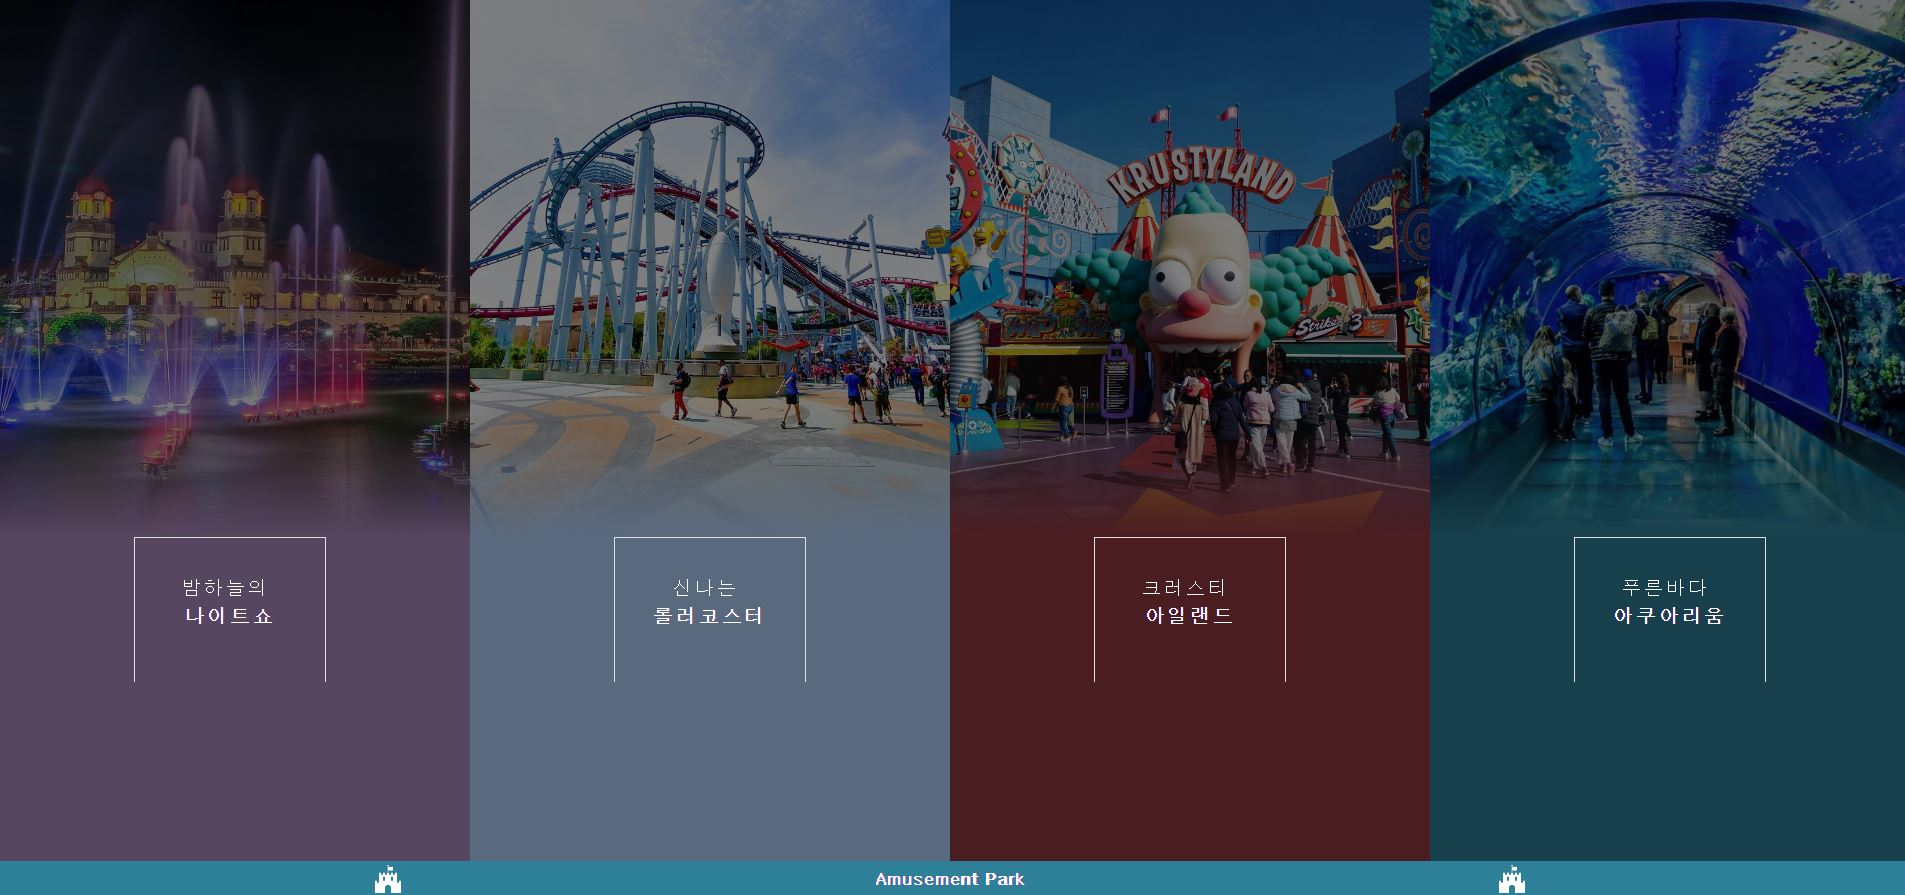
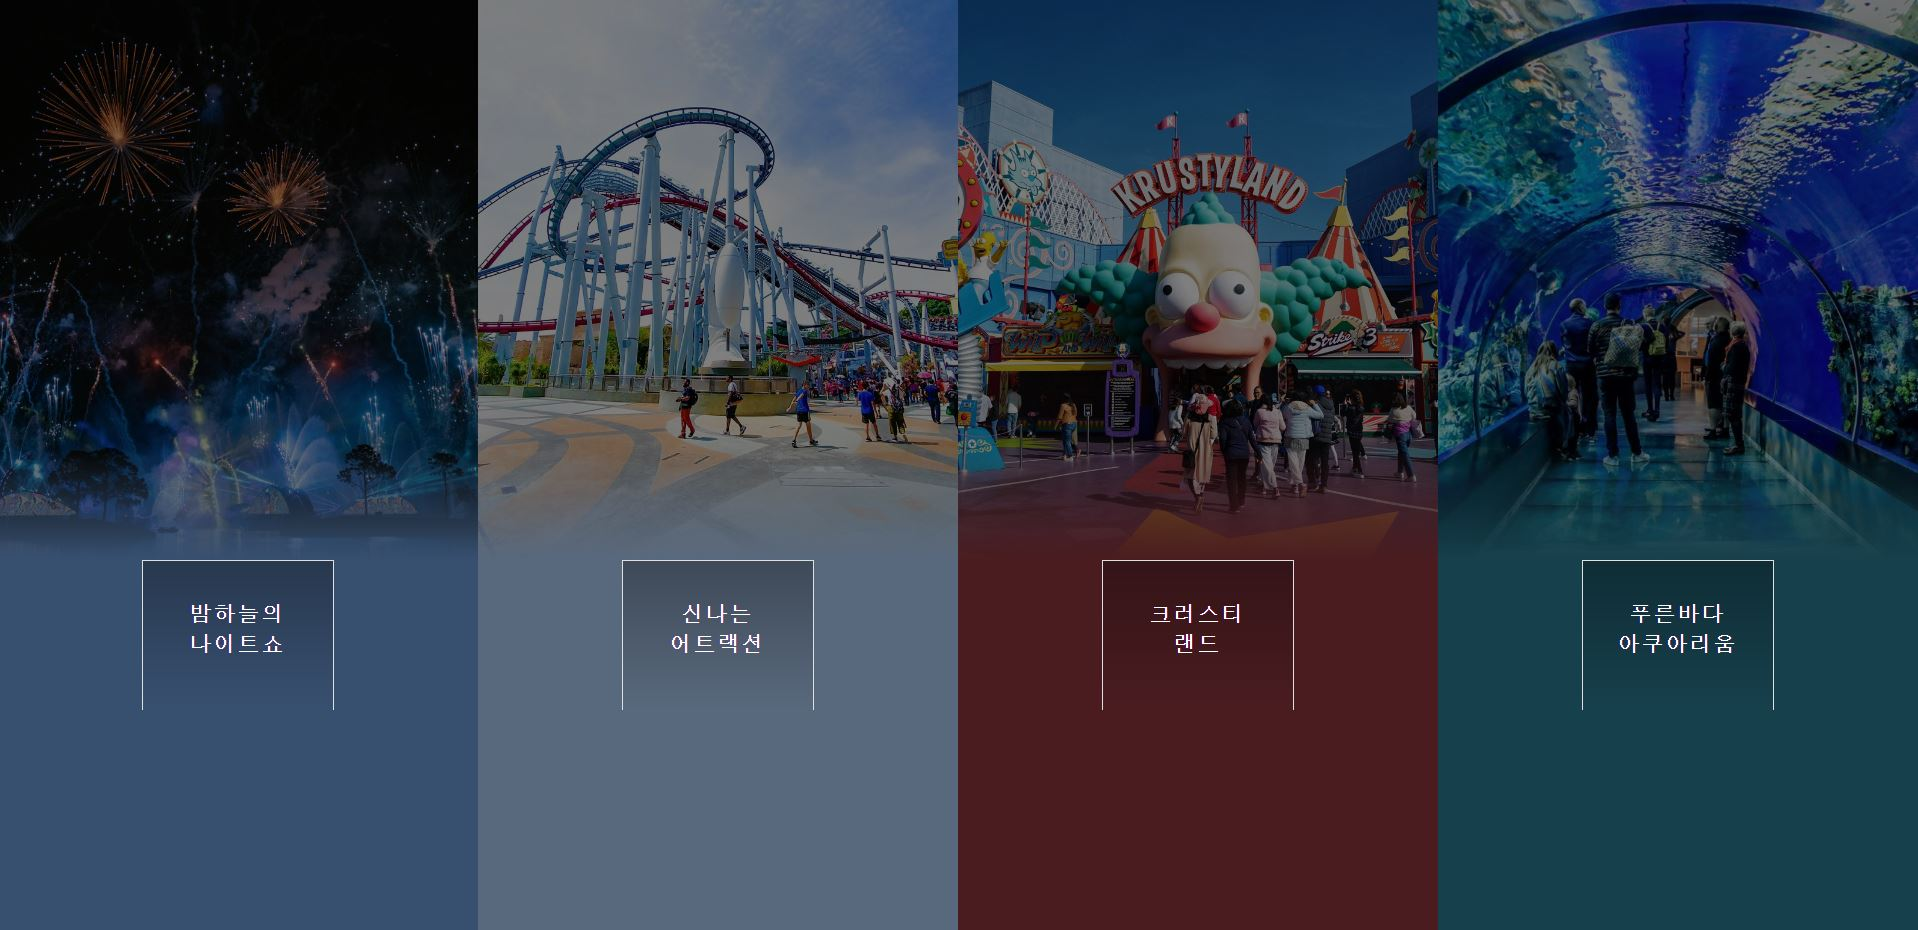
20230506

diff --git a/source/js/amusementpark/nightshow/nigihtshow.js b/source/js/amusementpark/nightshow/nigihtshow.js
@@ -5,6 +5,7 @@ window.addEventListener("load", () => {
   const overlayImg = document.querySelector(".overlay img");
   const hidings = document.querySelectorAll("a.hiding + *");
   const html = document.querySelector("html");
+  const gotop = document.querySelector(".gotop");
 
   //모바일 메뉴
   const topNavMobile = document.querySelector(".top-nav-mobile");
@@ -15,6 +16,15 @@ window.addEventListener("load", () => {
     subMenu.classList.toggle("opened");
   });
 
+  //gotop 버튼
+  gotop.addEventListener(
+    "click",
+    () => {
+      window.scrollTo(0, 0);
+    },
+    { passive: true }
+  );
+
   //click 이벤트 작동하지 않음
   goup.addEventListener("mouseenter", () => {
     subMenu.classList.toggle("opened");
@@ -24,14 +34,17 @@ window.addEventListener("load", () => {
     hidings[i].dataset.offtop = hidings[i].getBoundingClientRect().top - 1000;
   }
 
-  window.addEventListener("scroll", () => {
-    const currentTop = html.scrollTop;
-    for (let i = 0; i < hidings.length; i++) {
-      if (currentTop >= hidings[i].dataset.offtop) {
-        showElements(hidings[i]);
+  window.addEventListener(
+    "scroll",
+    throttle(() => {
+      const currentTop = html.scrollTop;
+      for (let i = 0; i < hidings.length; i++) {
+        if (currentTop >= hidings[i].dataset.offtop) {
+          showElements(hidings[i]);
+        }
       }
-    }
-  });
+    })
+  );
 
   function showElements(element) {
     element.style.top = "0px";
@@ -95,7 +108,7 @@ window.addEventListener("load", () => {
   }
 
   /**
-   * 슬라이더에 left : -320px css 를 적용하는 함수
+   * 슬라이더에 left : -300px css 를 적용하는 함수
    */
   function addStyle() {
     slider.style.transition = "1s ease";
@@ -114,4 +127,17 @@ window.addEventListener("load", () => {
     slider.style.transition = "none";
     slider.style.left = "0px";
   }
+
+  function throttle(callback, limit = 1000 / 15) {
+    let waiting = false;
+    return function () {
+      if (!waiting) {
+        callback.apply(this, arguments);
+        waiting = true;
+        setTimeout(() => {
+          waiting = false;
+        }, limit);
+      }
+    };
+  } //throttle
 });

diff --git a/source/js/index.js b/source/js/index.js
@@ -70,7 +70,7 @@ window.addEventListener("load", () => {
         }, limit);
       }
     };
-  }
+  } //throttle
 
   function saveOffsetTop() {
     itemsOffsetTops = [];
@@ -82,5 +82,5 @@ window.addEventListener("load", () => {
       );
     }
     itemsOffsetTops[headerAs.length - 1] = html.scrollHeight;
-  }
+  } //창 사이즈 변경시 top값 다시저장
 });

diff --git a/source/css/amusementpark/nightshow/nightshow.css b/source/css/amusementpark/nightshow/nightshow.css
@@ -242,7 +242,7 @@ main .letter-wrapper .letter:before {
   left: 0;
   width: 100%;
   height: 100%;
-  background: linear-gradient(to bottom, transparent 0%, #333 100%);
+  background: linear-gradient(to bottom, transparent 0%, #321d36 100%);
   z-index: 0;
 }
 @media screen and (min-width: 320px) and (max-width: 479px) {

diff --git a/source/css/amusementpark/nightshow/nightshow.scss b/source/css/amusementpark/nightshow/nightshow.scss
@@ -276,7 +276,7 @@ main {
         left: 0;
         width: 100%;
         height: 100%;
-        background: linear-gradient(to bottom, transparent 0%, #333 100%);
+        background: linear-gradient(to bottom, transparent 0%, #321d36 100%);
         z-index: 0;
       }
 
